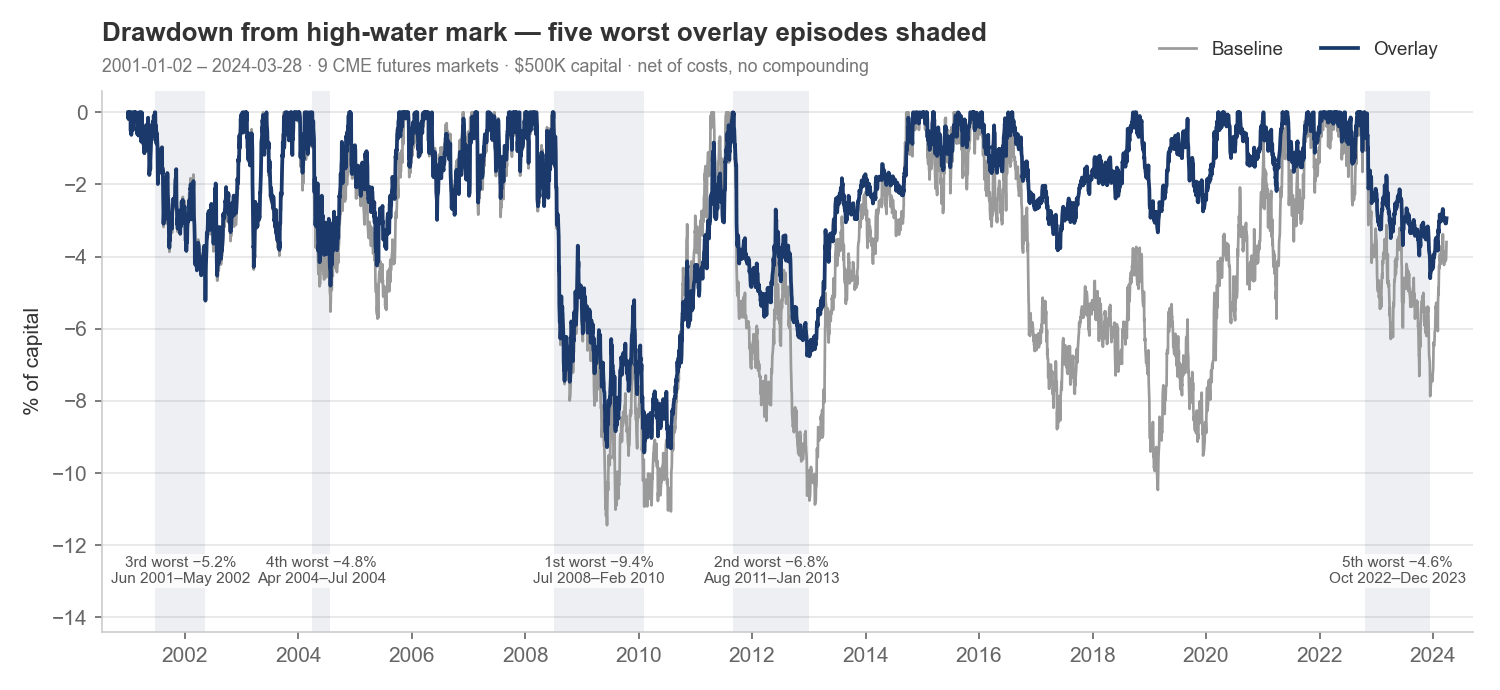
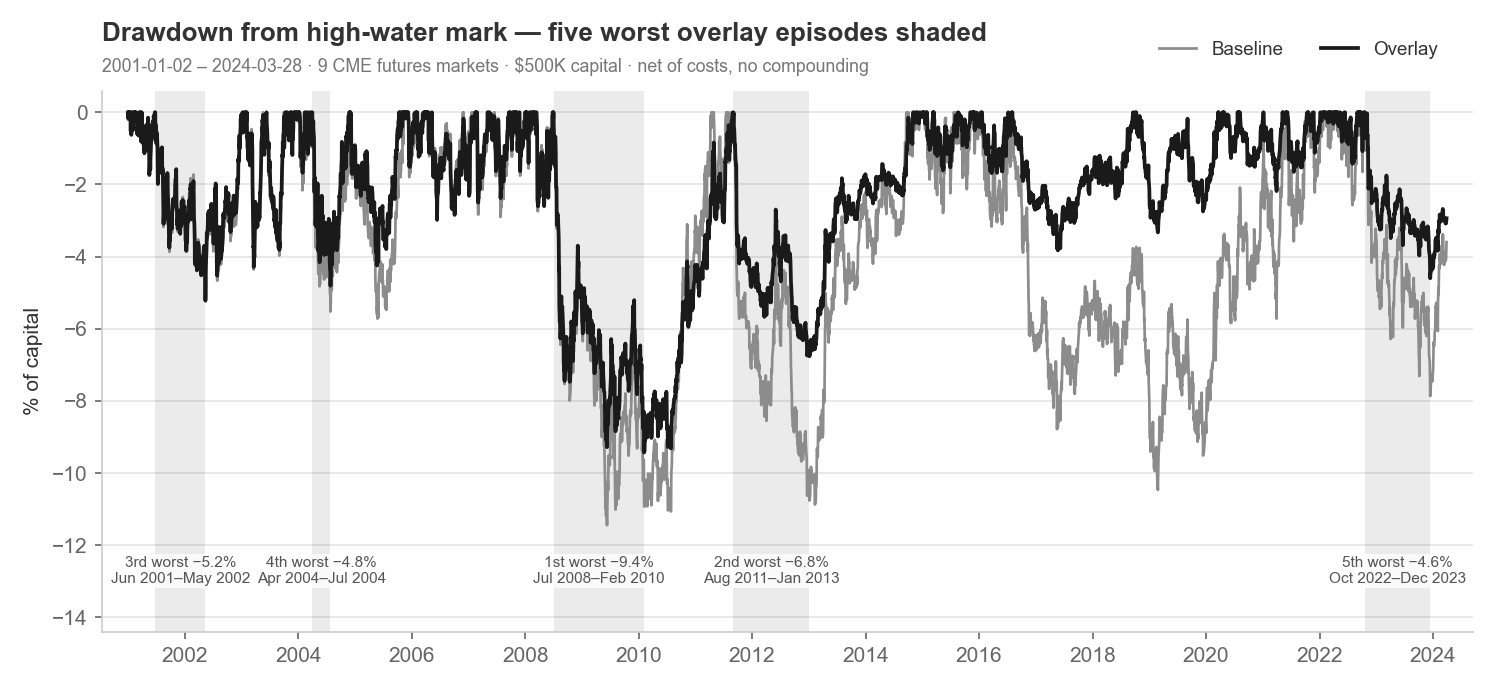
Exhibits: grayscale palette, inset moved to caption, italic captions; page
No data changes; strategy logic untouched.

- Palette: navy is gone. Overlay series and positive bars are near-black
  (#1a1a1a), baseline series and negative bars medium gray (#8c8c8c), the
  drawdown and de-risk bands light gray (black at 8% over white), event
  markers and their labels dark gray. Every PNG is verified pure grayscale
  (zero channel spread) on a white background.
- Figure 2: the inset Sharpe / max-drawdown box is removed from the plot
  area; the figures now sit in the caption in exhibits.md ("Net Sharpe 0.67
  (overlay) vs 0.64 (baseline); maximum drawdown -9.4% vs -11.4%"), values
  from the headline table in strategy_results.md.
- Captions: italic serif throughout (label and text) on the page and in the
  summary table's in-image caption.
- EXHIBITS_PAGE.png committed for the first time: US Letter portrait, 150 dpi,
  Figures 1, 2, 3 and 5 full width. Figure 4 (SI-2011 diagnostic) is off the
  page because beside Figure 3 at half width both charts fail the legibility
  audit (see the previous commit); the script's default layout now reflects
  that, and --layout "1/2/3,4/5" still renders the two-column variant.
  Audit: PASS (no text below 7 pt, nothing clipped, nothing overlapping).
- exhibits_page.py: --drop replaced by --layout SPEC.

Changed region(s): [[0.0613, 0.1522, 0.9813, 0.6391], [0.8893, 0.0609, 0.92, 0.0913]]

diff --git a/scripts/exhibit_restyle.py b/scripts/exhibit_restyle.py
@@ -39,13 +39,15 @@ CAPITAL = bt["CAPITAL"]
 PORT = bt["PORT"]
 VARIANTS = bt["VARIANTS"]
 all_days = bt["all_days"]
-metrics = bt["metrics"]
 events = bt["events"]
 td_shift = bt["td_shift"]
 
 # ------------------------------------------------------------- shared style
-NAVY = "#1b3a6b"          # overlay
-GRAY = "#9a9a9a"          # baseline / negatives
+# grayscale only: near-black overlay, medium-gray baseline, light-gray bands
+OVERLAY = "#1a1a1a"       # overlay series, positive bars
+BASELINE = "#8c8c8c"      # baseline series, negative bars
+MARK = "#555555"          # event markers and their labels
+SHADE = dict(color="#000000", alpha=0.08, lw=0)   # light gray shaded bands
 INK = "#333333"
 FAINT = "#777777"
 plt.rcParams.update({
@@ -86,26 +88,19 @@ def date_axis(ax, years=2):
 
 
 DT = pd.to_datetime(all_days)
-m_o = metrics(PORT["overlay"].net)
-m_b = metrics(PORT["baseline"].net)
 
 
 # ---------------------------------------------------- FIG1: cumulative net P&L
 def fig_equity(figsize=(10, 5.2)):
     fig, ax = plt.subplots(figsize=figsize)
-    for key, c, lw, lbl in [("overlay", NAVY, 2.0, "Overlay"),
-                            ("baseline", GRAY, 1.6, "Baseline")]:
+    for key, c, lw, lbl in [("overlay", OVERLAY, 2.0, "Overlay"),
+                            ("baseline", BASELINE, 1.6, "Baseline")]:
         y = PORT[key].net.cumsum() / CAPITAL * 100
         ax.plot(DT, y, color=c, lw=lw, label=lbl)
         ax.annotate(lbl, (DT[-1], y.iloc[-1]), xytext=(6, 0),
                     textcoords="offset points", color=c, fontsize=9.5,
                     fontweight="bold", va="center")
-    box = (f"{'':<9}{'Sharpe':>7}{'Max DD':>8}\n"
-           f"{'Overlay':<9}{m_o['sharpe']:>7.2f}{m_o['max_dd']*100:>7.1f}%\n"
-           f"{'Baseline':<9}{m_b['sharpe']:>7.2f}{m_b['max_dd']*100:>7.1f}%")
-    ax.text(0.025, 0.96, box, transform=ax.transAxes, fontsize=8.5,
-            fontfamily="monospace", va="top",
-            bbox=dict(boxstyle="round,pad=0.45", fc="white", ec="#cccccc", lw=0.8))
+    # Sharpe and max drawdown per variant are stated in the caption (exhibits.md)
     headed(ax, "Cumulative net P&L — overlay vs baseline", SUB_FULL)
     ax.set_ylabel("% of capital")
     date_axis(ax)
@@ -141,15 +136,15 @@ def decollide(fig, ax, labels, gap_px=4):
 
 def fig_drawdown(figsize=(10, 4.6), legend="header", title_fs=12.5):
     fig, ax = plt.subplots(figsize=figsize)
-    for key, c, lw, lbl in [("baseline", GRAY, 1.3, "Baseline"),
-                            ("overlay", NAVY, 1.8, "Overlay")]:
+    for key, c, lw, lbl in [("baseline", BASELINE, 1.3, "Baseline"),
+                            ("overlay", OVERLAY, 1.8, "Overlay")]:
         r = PORT[key].net.cumsum() / CAPITAL
         dd = ((r - r.cummax()) * 100).to_numpy(dtype=float)
         ax.plot(DT, dd, color=c, lw=lw, label=lbl)
     labels = []
     for line1, line2, peak, trough in EPISODES:
         t0, t1 = pd.to_datetime(peak), pd.to_datetime(trough)
-        ax.axvspan(t0, t1, color=NAVY, alpha=0.08, lw=0)
+        ax.axvspan(t0, t1, **SHADE)
         # anchor labels at the episode midpoint so adjacent episodes don't collide
         labels.append(ax.text(t0 + (t1 - t0) / 2, -12.3, f"{line1}\n{line2}",
                               ha="center", va="top", fontsize=7.4, color="#555555",
@@ -197,15 +192,15 @@ def fig_si2011(figsize=(10, 4.6), month_step=3, title_fs=12.5):
         t_end = td_shift(P, t_e, 10) or win[-1]
         if t_e is None or t_end < W0 or t_e > W1:
             continue
-        ax.axvspan(pd.to_datetime(t_e), pd.to_datetime(t_end), color=NAVY,
-                   alpha=0.09, lw=0, label="de-risk window [t0, t0+10]" if first else None)
-        ax.axvline(pd.to_datetime(t_e), color=NAVY, lw=0.8, ls=":", alpha=0.65)
+        ax.axvspan(pd.to_datetime(t_e), pd.to_datetime(t_end), **SHADE,
+                   label="de-risk window [t0, t0+10]" if first else None)
+        ax.axvline(pd.to_datetime(t_e), color=MARK, lw=0.8, ls=":", alpha=0.65)
         tr = mtransforms.blended_transform_factory(ax.transData, ax.transAxes)
         ax.text(pd.to_datetime(t_e), 0.99, f" hike eff. {d_e}", transform=tr,
-                rotation=90, va="top", ha="right", fontsize=7.2, color=NAVY)
+                rotation=90, va="top", ha="right", fontsize=7.2, color=MARK)
         first = False
-    for key, c, lw, lbl in [("baseline", GRAY, 1.5, "Baseline"),
-                            ("overlay", NAVY, 1.9, "Overlay")]:
+    for key, c, lw, lbl in [("baseline", BASELINE, 1.5, "Baseline"),
+                            ("overlay", OVERLAY, 1.9, "Overlay")]:
         ax.step(wdt, VARIANTS[key][P].pos_after[win], where="post",
                 color=c, lw=lw, label=lbl)
     ax.axhline(0, color="#bbbbbb", lw=0.8)
@@ -230,7 +225,7 @@ def fig_annual(figsize=(10, 4.4)):
            for y in years]
     labels = [y if y != "2024" else "2024*" for y in years]
     fig, ax = plt.subplots(figsize=figsize)
-    ax.bar(labels, ann, color=[NAVY if v >= 0 else GRAY for v in ann],
+    ax.bar(labels, ann, color=[OVERLAY if v >= 0 else BASELINE for v in ann],
            width=0.72, zorder=3)
     ax.axhline(0, color=INK, lw=1.3, zorder=4)
     headed(ax, "Annual net returns — overlay variant",
@@ -381,13 +376,14 @@ def fig_summary_table(width=9.4, margin=0.45, fs_h=10, fs_b=9.5, fs_cap=9.5,
             txt(xr, y_val2, val, fontsize=fs_b, fontweight="bold", ha="right",
                 va="center")
 
-    # caption: italic label, regular text flush after it, left-aligned
+    # caption: italic serif throughout, label then text, left-aligned
     lead = txt(L, y_cap, CAPTION[0], fontsize=fs_cap, fontstyle="italic",
                va="baseline")
     fig.canvas.draw()
     bb = lead.get_window_extent(fig.canvas.get_renderer())
     x_after = fig.transFigure.inverted().transform((bb.x1, 0))[0]
-    txt(x_after * W, y_cap, CAPTION[1], fontsize=fs_cap, va="baseline")
+    txt(x_after * W, y_cap, CAPTION[1], fontsize=fs_cap, fontstyle="italic",
+        va="baseline")
     return fig
 
 

diff --git a/scripts/exhibits_page.py b/scripts/exhibits_page.py
@@ -10,16 +10,18 @@ writes no PNGs when loaded this way), so text keeps its designed point size
 instead of being downscaled with the image. The only per-figure adaptations
 are the fitting hooks those functions expose: legend placement, tick spacing,
 header size, episode-label de-collision, and the table's type size/margins.
-Captions for Figures 2-5 are read from exhibits.md and set in the summary
-table's caption style (Times New Roman, italic label); Figure 1 carries its own.
+Captions for Figures 2-5 are read from exhibits.md and set like the summary
+table's caption (Times New Roman italic); Figure 1 carries its own.
 
 A legibility audit runs on every rendered figure — minimum font size, text
 clipped at the image edge, overlapping text — and is printed; the exit status
 is 1 if it fails, so a bad page never passes silently.
 
-Usage: exhibits_page.py [--drop N[,N...]] [--out PATH]
-  --drop  leave these figure numbers off the page (a two-figure row collapses
-          to one full-width slot)
+Usage: exhibits_page.py [--layout SPEC] [--out PATH]
+  --layout  rows top to bottom, "/" between rows, "," for side by side, e.g.
+            "1/2/3,4/5". Default "1/2/3/5": Figure 4 (the SI-2011 diagnostic)
+            is left off because beside Figure 3 at half width both charts fail
+            the audit, and five full-width rows leave every chart too short.
 """
 import argparse
 import io
@@ -44,18 +46,16 @@ ROW_GAP, COL_GAP = 20, 30               # px between rows / between side-by-side
 SERIF, FS_CAP = "Times New Roman", 9.5  # caption face and size, as in the summary table
 LINE_H, CAP_GAP = 25, 8                 # caption line pitch / gap above a caption, px
 MIN_PT = 7.0                            # legibility floor for any text on the page
-LAYOUT = [[1], [2], [3, 4], [5]]        # rows, top to bottom; a row of two is side by side
+LAYOUT = "1/2/3/5"                      # see the docstring for why Figure 4 is off
 WEIGHT = {2: 0.9, 3: 1.05, 4: 1.05, 5: 0.95}   # relative slot heights for the chart
 # rows: the drawdown chart carries a label band inside the axes and the bar
 # chart carries rotated year labels, so both need more height than the equity curve
 
 ap = argparse.ArgumentParser(description=__doc__.split("\n\n")[0])
-ap.add_argument("--drop", default="", help="figure numbers to leave off, e.g. 4 or 4,5")
+ap.add_argument("--layout", default=LAYOUT, help='e.g. "1/2/3,4/5" (Figures 3 and 4 side by side)')
 ap.add_argument("--out", default=str(REPO / "EXHIBITS_PAGE.png"))
 args = ap.parse_args()
-drop = {int(x) for x in args.drop.split(",") if x.strip()}
-layout = [[f for f in row if f not in drop] for row in LAYOUT]
-layout = [row for row in layout if row]
+layout = [[int(f) for f in row.split(",")] for row in args.layout.split("/")]
 
 # figure functions (+ the backtest rerun they need); __name__ != "__main__"
 # inside run_path, so the standard PNGs are not rewritten
@@ -169,7 +169,7 @@ def to_array(fig):
 page = plt.figure(figsize=(PAGE_W / DPI, PAGE_H / DPI), dpi=DPI)
 renderer = page.canvas.get_renderer()
 CAP_KW = dict(transform=IdentityTransform(), fontfamily=SERIF, fontsize=FS_CAP,
-              color="black", va="baseline")
+              fontstyle="italic", color="black", va="baseline")   # italic serif throughout
 
 
 def text_w(s, **kw):
@@ -184,9 +184,9 @@ SPACE_W = text_w("x x") - text_w("xx")
 
 def wrap(fid, width_px):
     """Greedy word wrap of a chart caption to its slot width; the first line
-    starts after the italic 'Figure N.' label."""
+    starts after the 'Figure N.' label."""
     label = f"Figure {fid}."
-    avail = width_px - text_w(label, fontstyle="italic") - SPACE_W
+    avail = width_px - text_w(label) - SPACE_W
     lines, cur = [], ""
     for word in CAPTIONS[fid].split():
         trial = f"{cur} {word}".strip()
@@ -201,8 +201,8 @@ def wrap(fid, width_px):
 
 def draw_caption(x, y_top, label, lines):
     y = PAGE_H - (y_top + 20)            # first baseline; display origin is bottom-left
-    page.text(x, y, label, fontstyle="italic", **CAP_KW)
-    page.text(x + text_w(label, fontstyle="italic") + SPACE_W, y, lines[0], **CAP_KW)
+    page.text(x, y, label, **CAP_KW)
+    page.text(x + text_w(label) + SPACE_W, y, lines[0], **CAP_KW)
     for i, ln in enumerate(lines[1:], 1):
         page.text(x, y - i * LINE_H, ln, **CAP_KW)
 

diff --git a/README.md b/README.md
@@ -40,8 +40,8 @@ internally and preserves the report sections already appended):
    full sample and the leave-one-market-out table
 8. `scripts/exhibit_restyle.py` — FIG1–FIG4 and FIG_summary_table PNGs assembled in
    [exhibits.md](exhibits.md)
-9. `scripts/exhibits_page.py` — the five exhibits re-rendered at slot size on one
-   US Letter page (EXHIBITS_PAGE.png), with a legibility audit
+9. `scripts/exhibits_page.py` — exhibits re-rendered at slot size on one US Letter
+   page (EXHIBITS_PAGE.png; Figures 1, 2, 3, 5 by default), with a legibility audit
 
 ## Where the data comes from
 

diff --git a/exhibits.md b/exhibits.md
@@ -12,8 +12,8 @@ and per-market net P&L beneath. Beta vs SPY (Yahoo, full sample 2001-01 –
 2024-03).
 
 ![Figure 2](FIG1_equity.png)
-**Figure 2.** Cumulative net P&L, overlay vs baseline, 2001–2024, $500K.
-Inset: net Sharpe and maximum drawdown per variant.
+**Figure 2.** Cumulative net P&L, overlay vs baseline, 2001–2024, $500K. Net
+Sharpe 0.67 (overlay) vs 0.64 (baseline); maximum drawdown −9.4% vs −11.4%.
 
 ![Figure 3](FIG2_drawdown.png)
 **Figure 3.** Drawdown from high-water mark, net, with the five worst overlay
